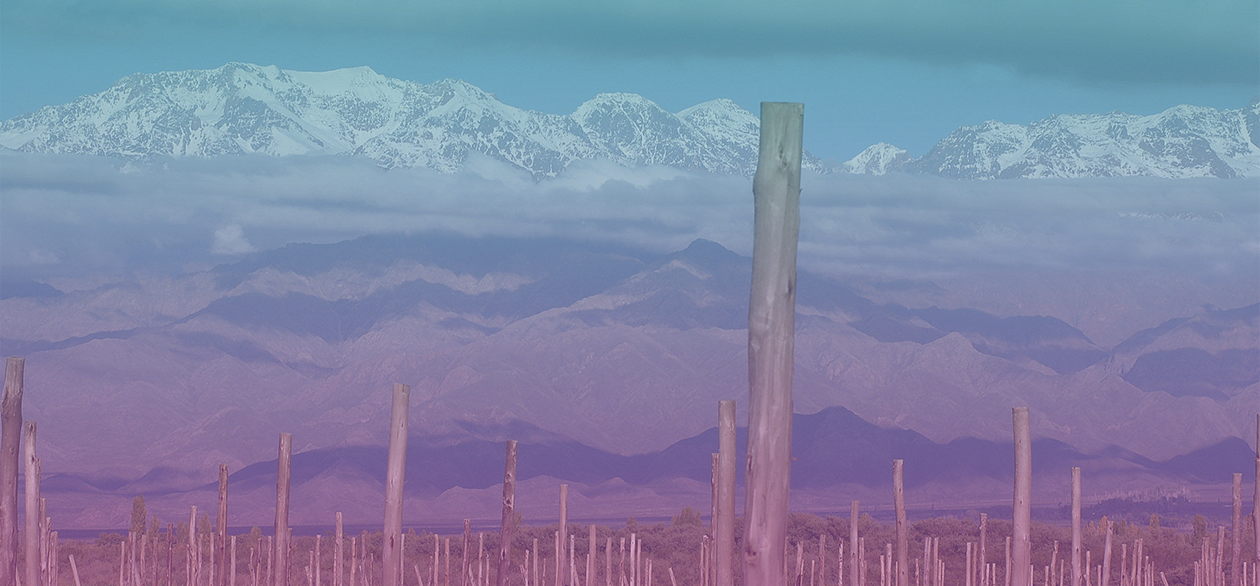
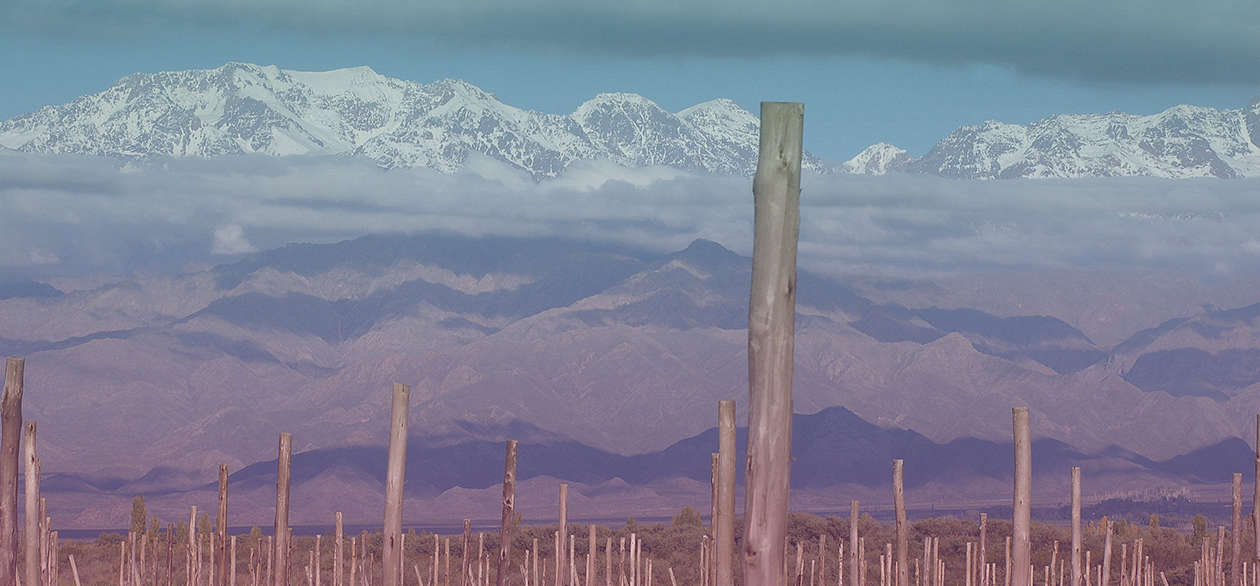
se bajó el filtro a las imágenes y se enlazó un PDF

diff --git a/src/components/Footer.js b/src/components/Footer.js
@@ -16,7 +16,7 @@ function Footer() {
         </div>
         <div data-aos="fade-right" className="div3">
         <img src={LogoMinisterio} alt="Logo Ministerio de Turismo y Deportes" width="100"/>
-        <h4>Certificado permiso precario, <a href="www.google.com" target="_blank" rel="nonreferrer">aquí.</a></h4>
+        <h4>Certificado permiso precario, <a href="https://raw.githubusercontent.com/steve-ux/envero-tours/e2d516d18fee2ebe8d12b1166e708e38dcf4083f/src/assets/PV-2022-136383912-APN-DRAV%2523MTYD.pdf" target="_blank" rel="noreferrer">aquí.</a></h4>
         <p>Para denunciar una agencia, <a href="https://www.argentina.gob.ar/servicio/presentar-una-denuncia-contra-una-agencia-de-viajes" target="_blank" rel="noreferrer">hacé clic acá.</a></p>
         </div>  
     </div>
